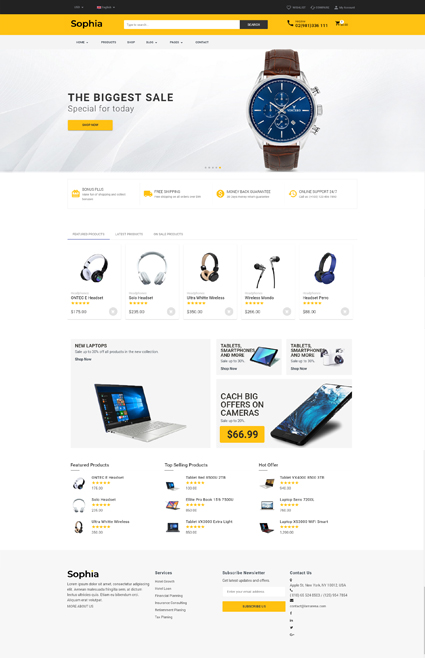
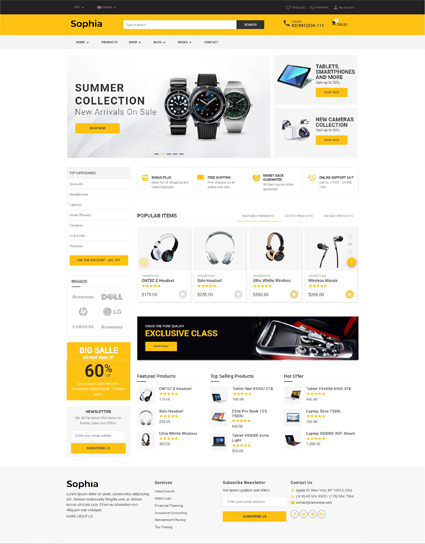
final touches

Changed region(s): [[0.0, 0.0, 1.0, 0.9688], [0.9788, 0.9062, 1.0, 1.0]]

diff --git a/src/app/components/shared/header-two/header-two.component.html b/src/app/components/shared/header-two/header-two.component.html
@@ -1,65 +1,7 @@
 
-<mat-sidenav #start  class="sidenav">
-    <button mat-icon-button color="warn" class="close" (click)="start.close()">
-      <mat-icon color="warn">close</mat-icon>
-    </button>
-    <app-sidebar></app-sidebar>
-  </mat-sidenav>
-
-  <mat-toolbar class="main-topbar">
-    <mat-toolbar-row fxLayout="row" fxLayoutAlign="space-between center" class="top-bar container" >
-            <span fxHide="false" fxHide.gt-sm>
-                <button mat-icon-button (click)="start.open('mouse')">
-                    <mat-icon>menu</mat-icon>
-                </button>
-             </span>
-          <div fxLayout="row" class="welcome-message">
-            <div class="widget-text">
-              <a mat-button [matMenuTriggerFor]="currencyMenu" #currencyMenuTrigger="matMenuTrigger">
-                {{currency}}<mat-icon class="mat-icon-sm caret cur-icon">arrow_drop_down</mat-icon>
-              </a>
-              <mat-menu #currencyMenu="matMenu" [overlapTrigger]="false" xPosition="before" class="app-dropdown">
-                <span>
-                    <button mat-menu-item *ngFor="let cur of currencies" (click)="changeCurrency(cur)">
-                        <span>{{cur}}</span>
-                    </button>
-                </span>
-            </mat-menu>
-            </div>
-            <div class="widget-text">
-              <a mat-button [matMenuTriggerFor]="langMenu" #langMenuTrigger="matMenuTrigger">
-                <img [src]="flag.image" width="18">
-                <span fxShow="false" fxShow.gt-sm class="flag-menu-title">{{flag.name}}</span>
-                <mat-icon class="mat-icon-sm caret cur-icon">arrow_drop_down</mat-icon>
-            </a>
-            <mat-menu #langMenu="matMenu" [overlapTrigger]="false" xPosition="before" class="app-dropdown">
-                <span>
-                    <button mat-menu-item *ngFor="let flag of flags" (click)="changeLang(flag)">
-                        <img [src]="flag.image" width="18"> {{flag.name}}
-                    </button>
-                </span>
-            </mat-menu>
-            </div>
-          </div>
-          <div class="widgets-left" fxLayout="row">
-
-            <div class="widget-text">
-              <a fxShow="false" fxShow.gt-xs [routerLink]="['/pages/wishlist']" routerLinkActive="router-link-active" ><mat-icon class="mat-icon-lg mat-icon material-icons mr-10">favorite_border</mat-icon> WISHLIST</a>
-            </div>
-            <div class="widget-text">
-              <a fxShow="false" fxShow.gt-xs [routerLink]="['/pages/compare']" routerLinkActive="router-link-active" ><mat-icon>cached</mat-icon>COMPARE</a>
-            </div>
-            <div class="widget-text">
-                <a fxShow="false" fxShow.gt-xs [routerLink]="['/pages/my-account']" routerLinkActive="router-link-active" ><mat-icon>person</mat-icon>My Account</a>
-              </div>
-          </div>
 
 
 
-
-    </mat-toolbar-row>
-
-  </mat-toolbar>
 
   <div class="home-header-2">
     <div class="container"fxLayout="row" fxLayout.sm="column" fxLayout.xs="column" fxLayoutGap="20px" fxlayoutalign="space-between center">

diff --git a/src/app/components/demo/demo.component.html b/src/app/components/demo/demo.component.html
@@ -22,7 +22,7 @@
        <div class="demos" fxLayout='row' fxLayout.lt-lg="column">
            <div  class="item" fxFlex="100" fxFlex.gt-xs="33.3" ngClass.xs="mt-2">
              <div class="first">
-                 <img src="assets/images/demo/s11.jpg" alt="">
+                 <img src="assets/images/demo/s1.jpg" alt="">
              </div>
               <div class="seccond">
                 <h4><a >HOME 1</a></h4>
@@ -33,7 +33,7 @@
            </div>
            <div  class="item middle" fxFlex="100" fxFlex.gt-xs="33.3" ngClass.xs="mt-2">
                <div class="first">
-                   <img src="assets/images/demo/s1.jpg" alt="">
+                   <img src="assets/images/demo/s10.jpg" alt="">
                </div>
                 <div class="seccond">
                    <h4><a >HOME 2</a></h4>
@@ -44,7 +44,7 @@
              </div>
              <div  class="item" fxFlex="100" fxFlex.gt-xs="33.3" ngClass.xs="mt-2">
                  <div class="first">
-                     <img src="assets/images/demo/s1.jpg" alt="">
+                     <img src="assets/images/demo/s11.jpg" alt="">
                  </div>
                   <div class="seccond">
                      <h4>HOME 3</h4>
@@ -135,11 +135,11 @@
                    </div>
                    <div fxLayout="row" fxFlex="100" fxFlex.gt-sm="50" class="feature-item">
                     <div class="icon-box">
-                      <img src="assets/images/demo/spinner.jpg" alt="">
+                      <img src="assets/images/demo/font.jpg" alt="">
                     </div>
                     <div class="text-box">
-                         <h4>Ngx-spinner</h4>
-                         <p>Angular spinner implemented..</p>
+                         <h4>Google Fonts</h4>
+                         <p>The app uses regular google fonts</p>
                     </div>
                   </div>
              </div>

diff --git a/src/app/components/demo/demo.component.scss b/src/app/components/demo/demo.component.scss
@@ -12,7 +12,7 @@
         text-transform: capitalize;
         color: #ffc111;
         .powerful {
-          font-size: 78px;
+          font-size: 51px;
           font-weight: 300;
           letter-spacing: 7px;
           color: #333;
@@ -58,6 +58,9 @@
         margin: 0 auto;
 
         position: relative;
+        img {
+          max-width: 100%;
+        }
 
           .ped-btn {
               border: 1px solid #ffc111;
@@ -97,7 +100,7 @@
           height: 488px;
           overflow: hidden;
           position: relative;
-          width: 425px;
+          width: 100%;
           z-index: 99;
           border: 2px solid #F0F0F0;
         }
@@ -147,6 +150,58 @@
           }
 
         }
+    }
+  }
+}
+@media(max-width: 475px) {
+  .main-features {
+    .features-wrap {
+
+        .features {
+          .row {
+            margin-bottom: 0px !important;
+            .feature-item {
+              padding: 0;
+              margin-bottom: 30px;
+              .icon-box {
+                img {
+                  max-width: 100px;
+                }
+
+              }
+              .text-box {
+                padding: 0px 0 0 18px !important;
+               h4 {
+                font-size: 20px !important;
+                font-weight: 600;
+                margin-bottom: 10px;
+               }
+               p {
+               color: #333;
+               }
+              }
+            }
+          }
+
+        }
+    }
+  }
+  .text-intro {
+    h1 {
+
+      .powerful {
+        font-size: 45px !important;
+
+      }
+
+    }
+  }
+
+  .demo-header {
+
+    padding: 100px 0 100px 0 !important;
+    .left-panel {
+      margin-bottom: 20px !important;
     }
   }
 }

diff --git a/src/app/components/shared/sidebar/sidebar.component.html b/src/app/components/shared/sidebar/sidebar.component.html
@@ -1,5 +1,5 @@
 
-<a mat-list-item  [ngStyle]="{'padding-left': (depth * 12) + 'px'}" class="menu-list-item" (click)="onItemSelected(item)"
+<a mat-list-item   class="menu-list-item" (click)="onItemSelected(item)"
 [ngClass]="{'active': item.route ? router.isActive(item.route, true): false, 'expanded': expanded}">
   {{item.displayName}}
   <span fxFlex *ngIf="item.children && item.children.length">
@@ -14,27 +14,3 @@
     </app-sidebar>
   </div>
 
-<!-- <div *ngFor="let menu of parentMenu" class="menu-item">
-    <a *ngIf="menu.routerLink && !menu.hasSubMenu" mat-button
-        fxLayout="row" fxLayoutAlign="start center"
-        [routerLink]="[menu.routerLink]" routerLinkActive="active-link" [routerLinkActiveOptions]="{exact:true}"
-        (click)="onClick(menu.id)" [id]="'menu-item-'+menu.id">
-        <span class="menu-title">{{menu.title}}</span>
-    </a>
-    <a *ngIf="menu.href && !menu.subMenu" mat-button
-        fxLayout="row" fxLayoutAlign="start center"
-        [attr.href]="menu.href || ''" [attr.target]="menu.target || ''"
-        (click)="onClick(menu.id)" [id]="'menu-item-'+menu.id">
-        <span class="menu-title">{{menu.title}}</span>
-    </a>
-    <a *ngIf="menu.hasSubMenu" mat-button
-        fxLayout="row" fxLayoutAlign="start center"
-        (click)="onClick(menu.id)" [id]="'menu-item-'+menu.id">
-        <span class="menu-title">{{menu.title}}</span>
-        <mat-icon class="menu-expand-icon transition-2">arrow_drop_down</mat-icon>
-    </a>
-
-    <div *ngIf="menu.hasSubMenu" class="sub-menu" [id]="'sub-menu-'+menu.id">
-        <app-sidebar [menuItems]="menuItems" [menuParentId]="menu.id"></app-sidebar>
-    </div>
-</div> -->

diff --git a/src/app/components/shop/products/product-left-sidebar/product-left-sidebar.component.html b/src/app/components/shop/products/product-left-sidebar/product-left-sidebar.component.html
@@ -2,7 +2,7 @@
 <div class="container">
   <div class="sidebar-wrapper" fxLayout='row' fxLayout.lt-md="column" >
       <div fxFlex="25" fxFlex.lt-sm="100" class="filter-sidenav" perfectScrollbar>
-          <div class="toggles-wrapper" fxLayout="row" fxLayout.lt-md="column">
+          <div class="toggles-wrapper" fxLayout="column" fxLayout.lt-md="column">
               <div class="toggles" fxFlex.lt-md="100">
                   <mat-accordion>
                       <mat-expansion-panel>

diff --git a/src/assets/scss/_color2.scss b/src/assets/scss/_color2.scss
@@ -1,4 +1,4 @@
 @import 'theme/variables';
 @import 'theme/style';
-$theme-main: #ffc111;
+$theme-main: #ff8b14;
 @import 'theme/responsive';

diff --git a/src/assets/scss/_color3.scss b/src/assets/scss/_color3.scss
@@ -1,4 +1,4 @@
 @import 'theme/variables';
 @import 'theme/style';
-$theme-main: #ffc111;
+$theme-main: #7ee1ff;
 @import 'theme/responsive';
